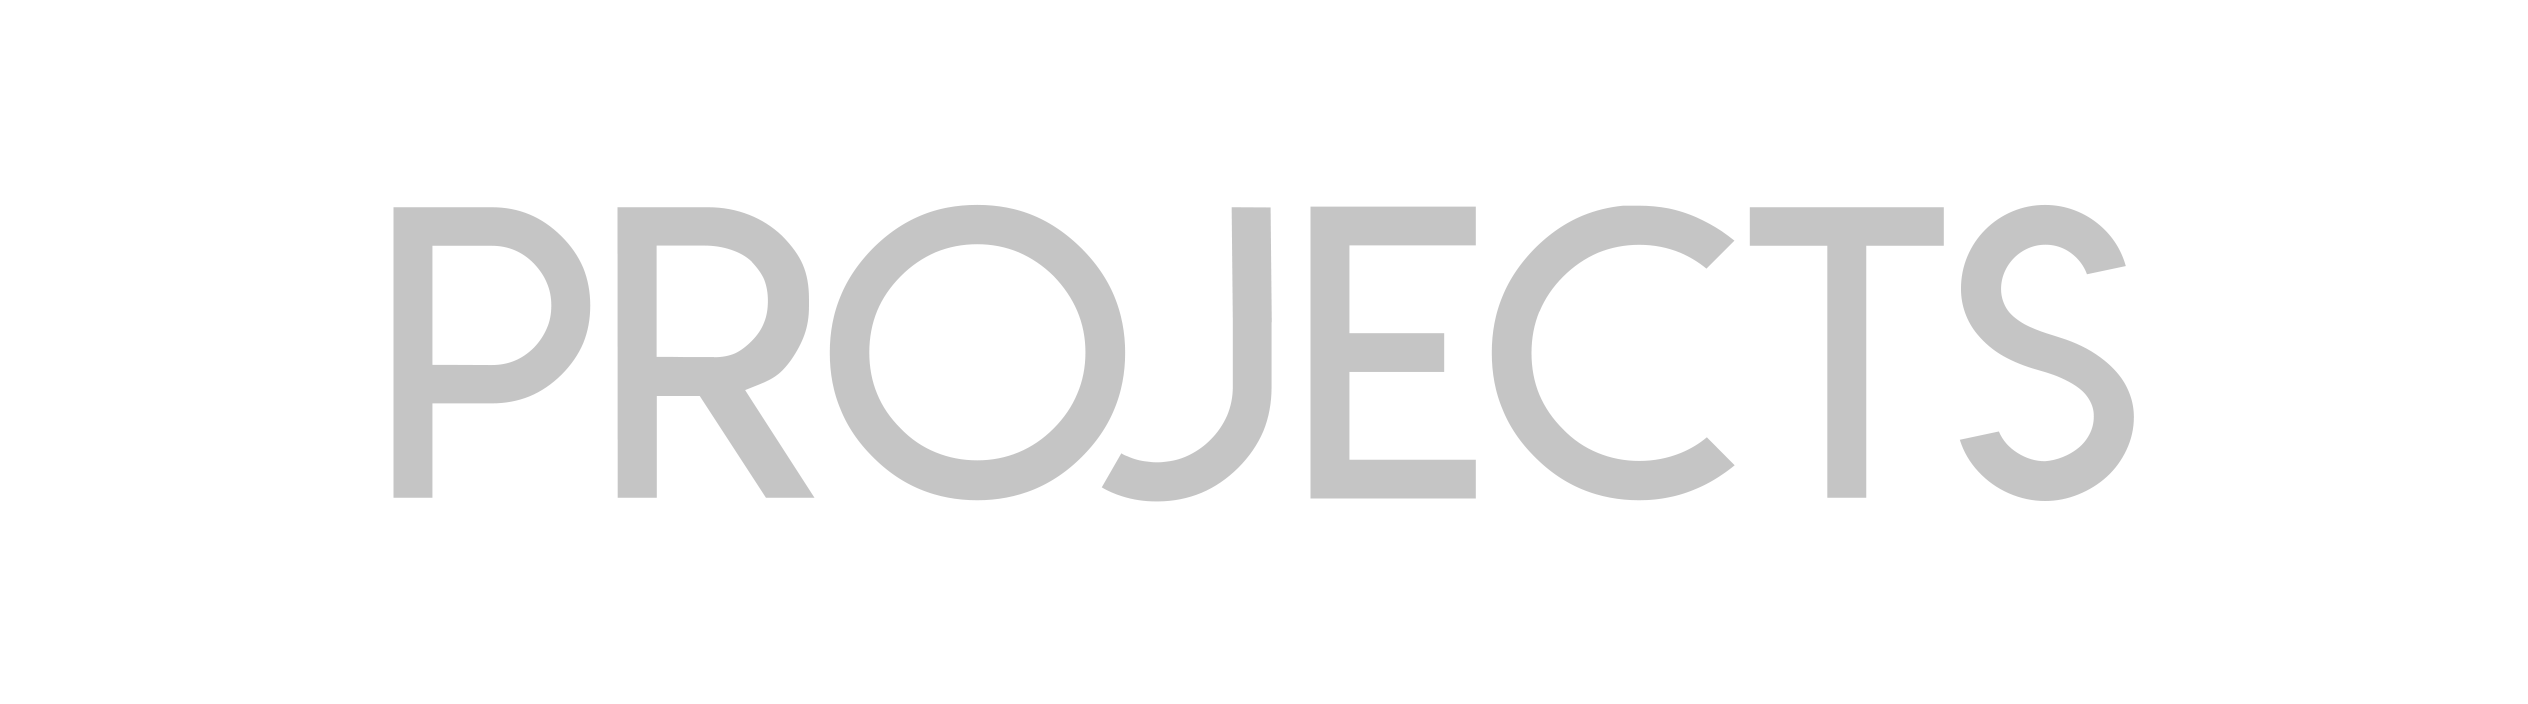
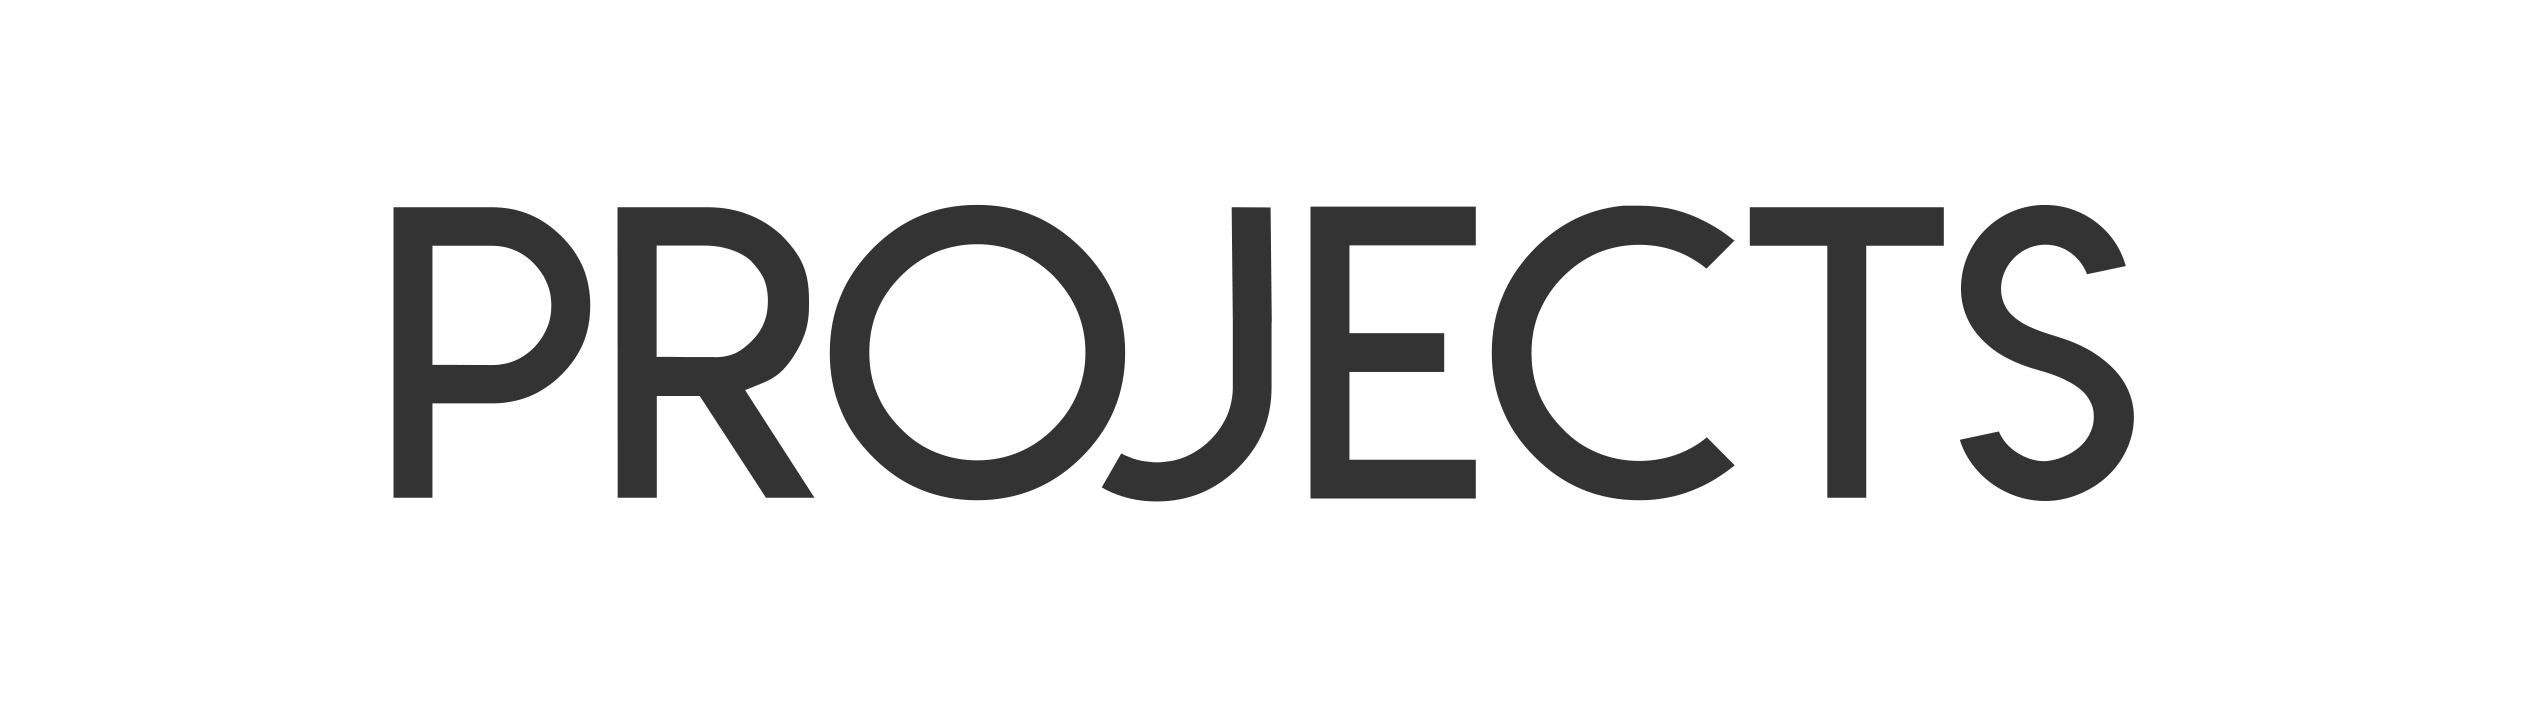
changed projects header

Changed region(s): [[0.1562, 0.2812, 0.8438, 0.7188]]

diff --git a/src/projects/Mobile.vue b/src/projects/Mobile.vue
@@ -5,6 +5,7 @@
         </h1>
         <img class="project" src="../assets/connect4.png" alt="wingardium leviosfour" />
         <img class="project" src="../assets/speculook.png" alt="speculook" />
+        <img class="project" src="../assets/eventful.png" alt="eventful" />
         <img class="project" src="../assets/santasworkshop.png" alt="santa's workshop" />
     </div>
 </template>
@@ -20,7 +21,7 @@ export default {
         background-image: linear-gradient(to bottom, #f712d9, #6951fc, #3f07e0);
         background-color: #222;
         width: 94.5%;
-        margin: -15vw -2.1vw;
+        margin: -15vw -3vw;
         left: 0;
         padding: 1em;
         color: #c5c5c5;

diff --git a/src/about/About.vue b/src/about/About.vue
@@ -34,7 +34,7 @@
     fieldset.sm-about {
         background-color: #1a1a1a;
         width: 75%;
-        margin: 0 auto 10vw auto;
+        margin: 0 auto 10vw 7.8vw;
         border: 1px solid #f115db;
         border-radius: 2vw;
         font-size: 5.5vw;

diff --git a/src/nav/Mobile.vue b/src/nav/Mobile.vue
@@ -45,8 +45,8 @@
     nav {
         background-color: #181818;
         width: 100%;
-        padding: 1em 5em 2em 0em;
-        margin-left: -5vw;
+        padding: 1em 2em 2em 0em;
+        margin-left: -7vw;
     }
     
     ul {
